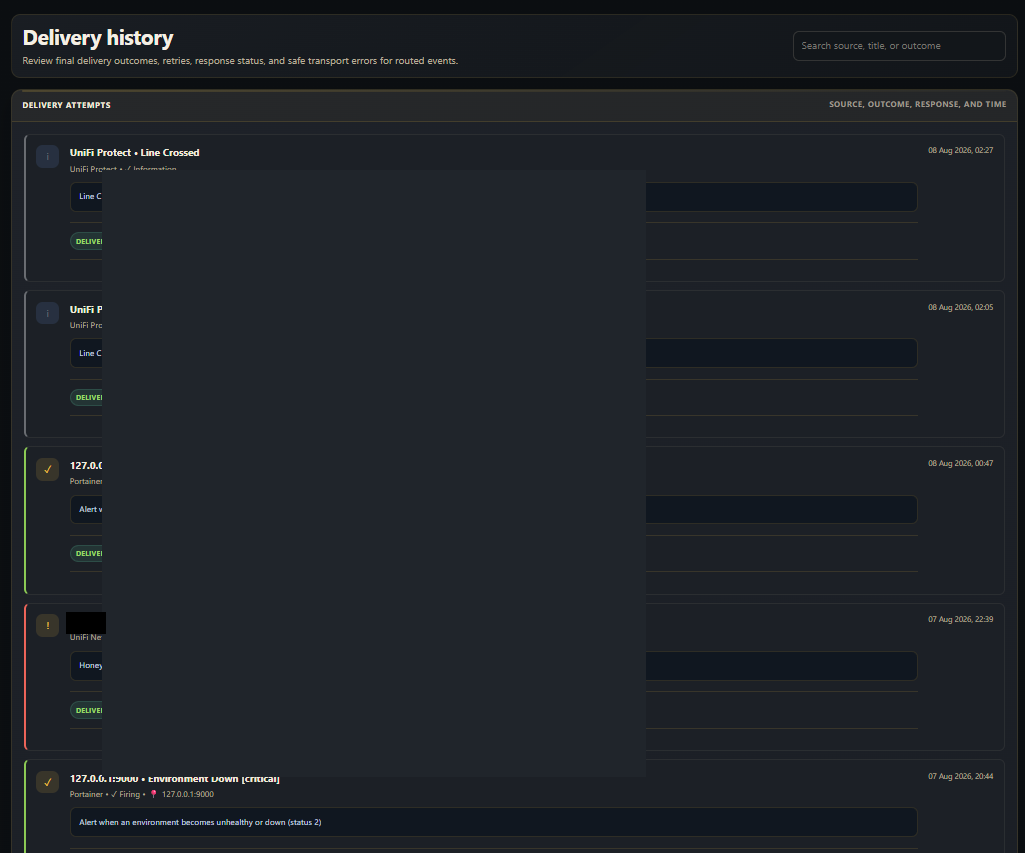
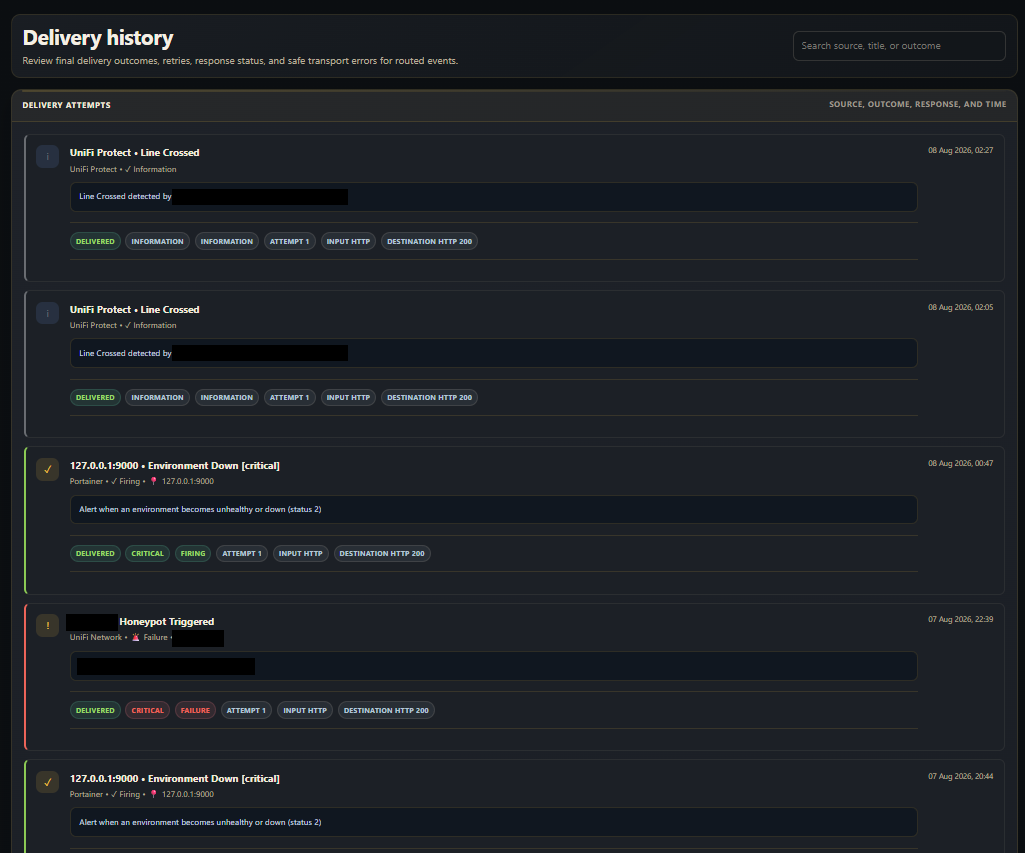
docs: mask only the names in the v3.1.0 delivery-history capture, fix UniFi caption
The historical v3.1.0 delivery-history capture carried one large grey block
over about a third of the page, hiding outcome chips and titles that are not
private. It is restored from its August capture and now has five small black
boxes over the private values only (camera name x2, gateway name and location
line, device and person name). The privacy page row says so.

The UniFi Protect alarms caption no longer promises the trigger history,
which stays masked in that capture.

Docs and images only; no application change.

diff --git a/docs/guides/screenshot-privacy.md b/docs/guides/screenshot-privacy.md
@@ -413,7 +413,7 @@ raster under `docs/images/` needs a row.
 | `images/v2.5.2-teams.png` | retained | historical v2.5.2 capture; not embedded; opened 23 Oct 2026 |
 | `images/v3.1.0-dashboard.png` | retained | historical v3.1.0 capture; reviewed 15 Oct 2026 |
 | `images/v3.1.0-destinations.png` | retained | historical v3.1.0 capture; reviewed 15 Oct 2026 |
-| `images/v3.1.0-delivery-history.png` | retained | historical v3.1.0 capture; not embedded; restored from Git history and masked 2 Nov 2026 (device-name prefix of one row title; the earlier large mask kept); still shows the page header, row sources, outcomes and times |
+| `images/v3.1.0-delivery-history.png` | retained | historical v3.1.0 capture; not embedded; restored from Git history and masked 3 Nov 2026 with five small black boxes over the private values only (the camera name in two row messages, the gateway name in one row title and its location line, and a device and person name in one row message; the earlier large mask was removed); still shows the page header, titles, sources, outcome chips, attempt and transport chips and times |
 | `images/v3.1.0-discord-idrac.png` | retained | historical v3.1.0 capture; not embedded; opened 23 Oct 2026 |
 | `images/v3.1.0-discord-unifi.png` | retained | historical v3.1.0 capture; not embedded; opened 23 Oct 2026 |
 | `images/v3.1.0-discord-xen-orchestra.png` | retained | historical v3.1.0 card embedded by the Xen Orchestra to Discord guide as historical; restored from Git history and masked 2 Nov 2026 (job name in the title and message, repository and the two VM names; the earlier partial masks kept; on 2 Nov 2026, cycle 3, also the trailing title glyph that was left beside the title mask); still shows mode, duration, sizes, speeds, times and the product footer |

diff --git a/docs/guides/unifi-to-discord.md b/docs/guides/unifi-to-discord.md
@@ -102,7 +102,7 @@ deployment's forwarding alarm. The Schedule trigger is a timer, not a source
 event subscription. This setup forwards available alarm events, not video or
 every raw telemetry sample; thumbnails were left off.
 
-![Protect forwarding alarms and native trigger history; the location-labelled alarm names are masked](../images/unifi-setup/protect-alarms.png)
+![Protect forwarding alarms and the detail panel; the location-labelled alarm names and the history entries in the detail panel are masked](../images/unifi-setup/protect-alarms.png)
 
 In Protect Alarm Manager, confirm the four forwarding alarms are enabled and
 inspect each trigger and eligible-device scope. Use your own camera/location
